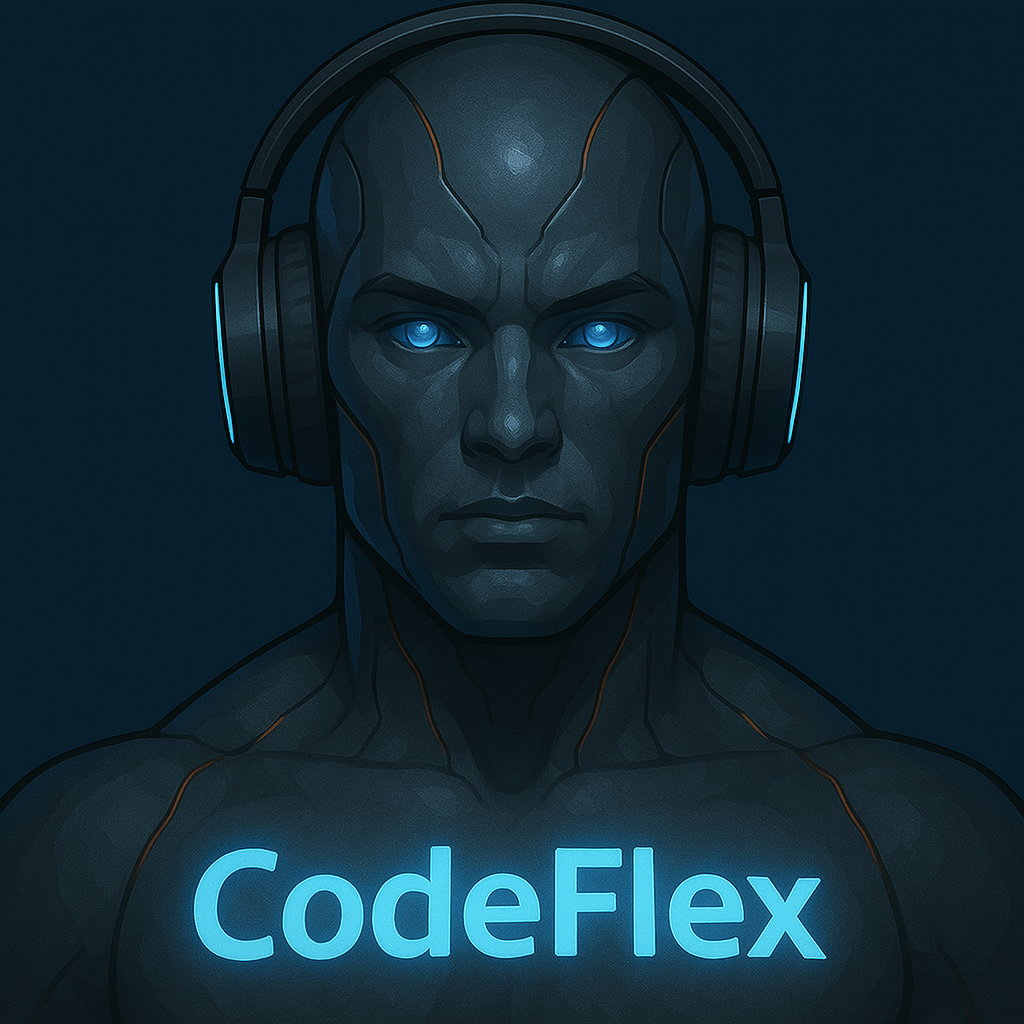
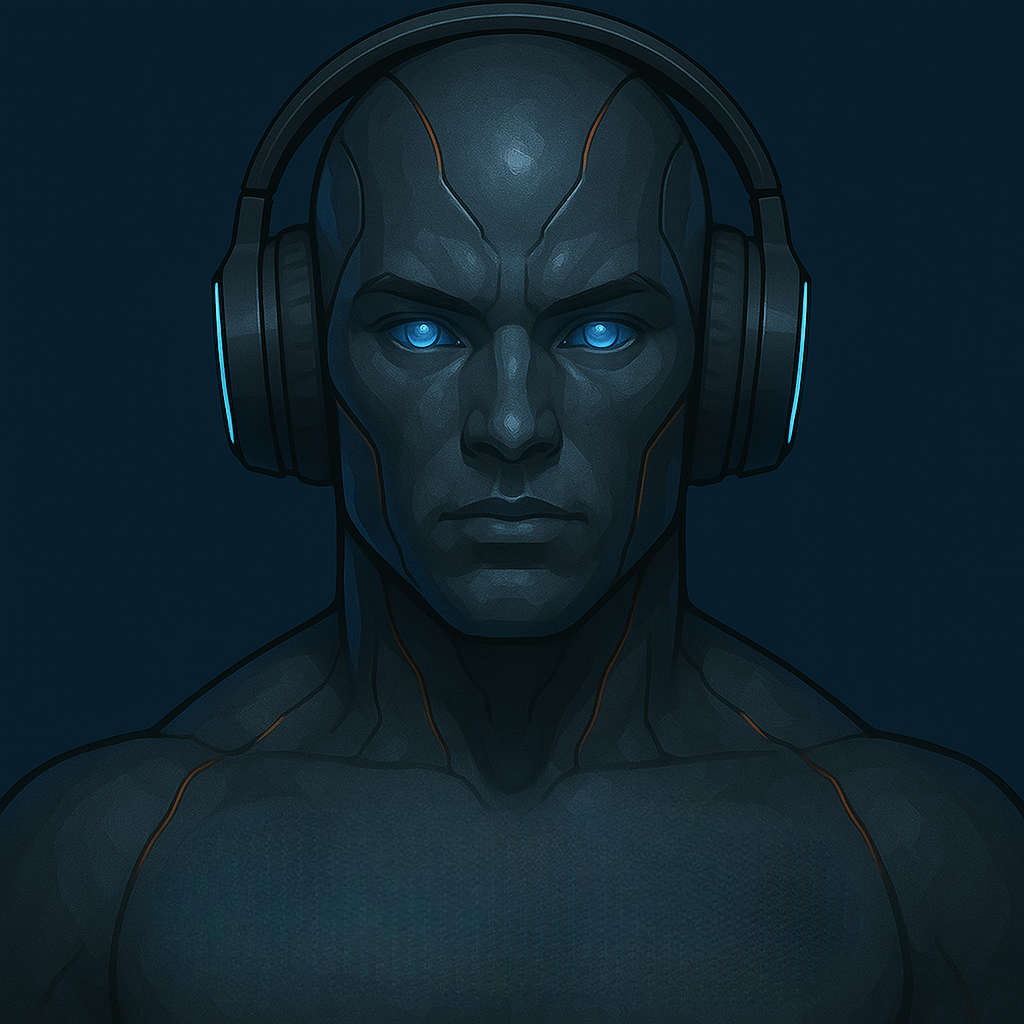
fixed webhook and added gemini api

Changed region(s): [[0.1562, 0.8125, 0.8438, 0.9688]]

diff --git a/src/app/generate-program/page.tsx b/src/app/generate-program/page.tsx
@@ -205,7 +205,7 @@ const GenerateProgramPage = () => {
                 </div>
               </div>
 
-              <h2 className="text-xl font-bold text-foreground">CodeFlex AI</h2>
+              <h2 className="text-xl font-bold text-foreground">Fitmind AI</h2>
               <p className="text-sm text-muted-foreground mt-1">Fitness & Diet Coach</p>
 
               {/* SPEAKING INDICATOR */}
@@ -271,7 +271,7 @@ const GenerateProgramPage = () => {
               {messages.map((msg, index) => (
                 <div key={index} className="message-item animate-fadeIn">
                   <div className="font-semibold text-xs text-muted-foreground mb-1">
-                    {msg.role === "assistant" ? "CodeFlex AI" : "You"}:
+                    {msg.role === "assistant" ? "Fitmind AI" : "You"}:
                   </div>
                   <p className="text-foreground">{msg.content}</p>
                 </div>

diff --git a/src/components/Footer.tsx b/src/components/Footer.tsx
@@ -16,11 +16,11 @@ const Footer = () => {
                 <ZapIcon className="w-4 h-4 text-primary" />
               </div>
               <span className="text-xl font-bold font-mono">
-                code<span className="text-primary">flex</span>.ai
+                Fit<span className="text-primary">Mind</span>.AI
               </span>
             </Link>
             <p className="text-sm text-muted-foreground">
-              © {new Date().getFullYear()} codeflex.ai - All rights reserved
+              © {new Date().getFullYear()} Fitmind.ai - All rights reserved
             </p>
           </div>
 

diff --git a/src/components/Navbar.tsx b/src/components/Navbar.tsx
@@ -17,7 +17,7 @@ const Navbar = () => {
             <ZapIcon className="w-4 h-4 text-primary" />
           </div>
           <span className="text-xl font-bold font-mono">
-            code<span className="text-primary">flex</span>.ai
+            Fit<span className="text-primary">Mind</span>.AI
           </span>
         </Link>
 

diff --git a/src/app/layout.tsx b/src/app/layout.tsx
@@ -17,7 +17,7 @@ const geistMono = Geist_Mono({
 });
 
 export const metadata: Metadata = {
-  title: "CodeFlex AI - Get Jacked",
+  title: "Fitmind AI - Get Jacked",
   description: "A modern fitness AI platform to get jacked for free.",
 };
 

diff --git a/convex/auth.config.ts b/convex/auth.config.ts
@@ -1,7 +1,7 @@
 export default {
   providers: [
     {
-      domain: "https://peaceful-baboon-38.clerk.accounts.dev/",
+      domain: "https://alive-muskox-78.clerk.accounts.dev/",
       applicationID: "convex",
     },
   ],
